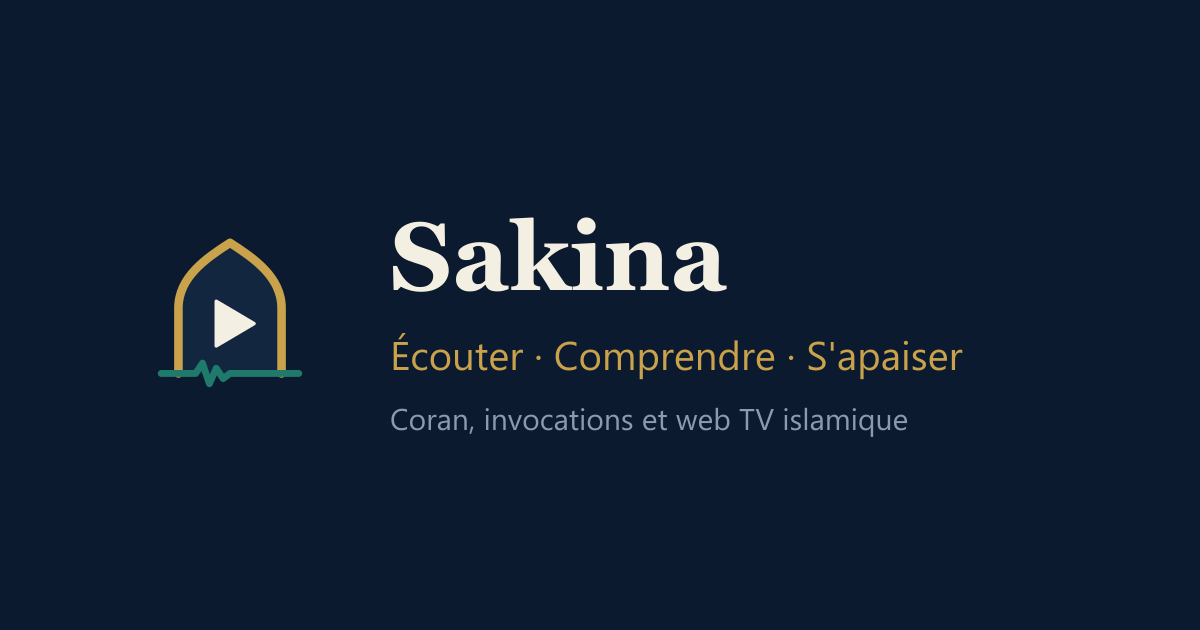
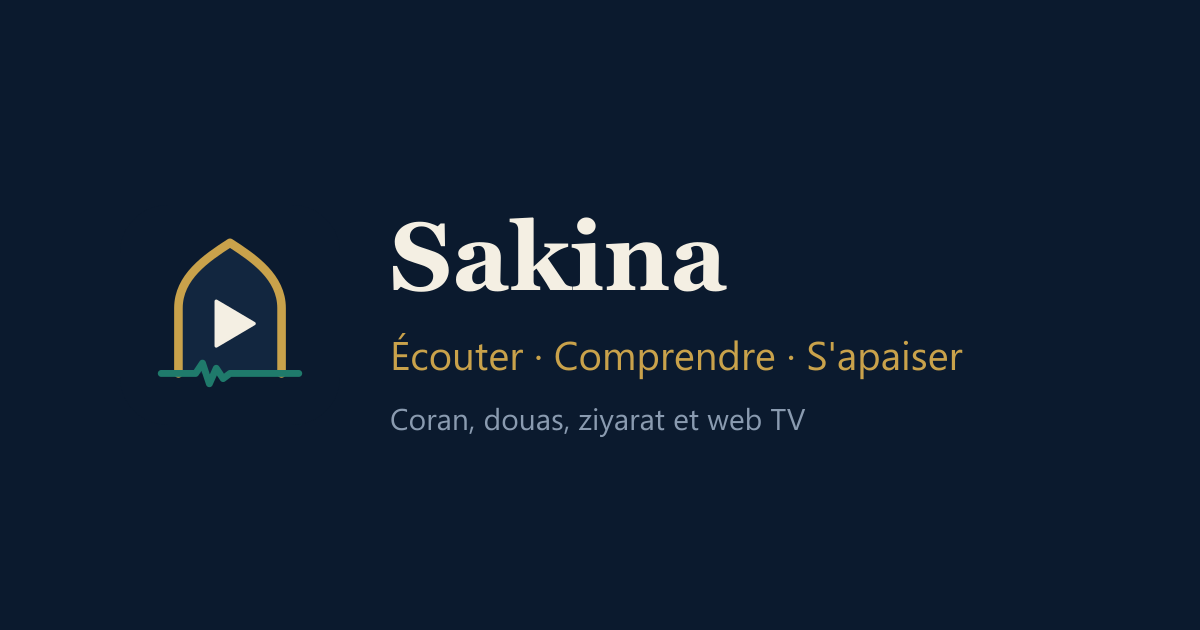
Switch categories and wording to Shia devotional content
New categories: Coran, Douas, Ziyarat, Sahifa Sajjadiya, Munajat, Ta'qibat,
Latmiyat & Nohas, Majalis, Madaeh & Mawalid, Conferences. The migration
renames existing categories where there is an equivalent and moves content
out of dropped ones, so nothing already uploaded is lost. The Invocations
page becomes Douas (/douas).

Changed region(s): [[0.4008, 0.6333, 0.7708, 0.6937]]

diff --git a/pb/pb_migrations/1761100000_shia_categories.js b/pb/pb_migrations/1761100000_shia_categories.js
@@ -1,0 +1,65 @@
+/// <reference path="../pb_data/types.d.ts" />
+
+// Categories for Shia devotional content. Existing categories are renamed where there is
+// an equivalent (so content already filed under them follows), and unused ones are removed.
+
+migrate((app) => {
+	// [slug, name_fr, name_ar, icon, description_fr, description_ar]
+	const categories = [
+		['coran', 'Coran', 'القرآن الكريم', 'book-open', 'Récitations du Saint Coran.', 'تلاوات القرآن الكريم.'],
+		['douas', 'Douas', 'الأدعية', 'hand-heart', 'Kumayl, Tawassul, Nudba, Iftitah, Sabah, Ahd…', 'كميل، التوسل، الندبة، الافتتاح، الصباح، العهد…'],
+		['ziyarat', 'Ziyarat', 'الزيارات', 'landmark', 'Ziyarat Achoura, Warith, Jami’a al-Kabira, Aminullah…', 'زيارة عاشوراء، وارث، الجامعة الكبيرة، أمين الله…'],
+		['sahifa', 'Sahifa Sajjadiya', 'الصحيفة السجادية', 'scroll-text', 'Les invocations de l’Imam Zayn al-Abidin (as).', 'أدعية الإمام زين العابدين (ع).'],
+		['munajat', 'Munajat', 'المناجاة', 'moon-star', 'Munajat Sha’baniyya et les quinze munajat.', 'المناجاة الشعبانية والمناجيات الخمس عشرة.'],
+		['taqibat', 'Ta’qibat', 'التعقيبات', 'sunrise', 'Invocations après la prière, tasbih de Fatima Zahra (as).', 'تعقيبات الصلاة وتسبيح الزهراء (ع).'],
+		['latmiyat', 'Latmiyat & Nohas', 'اللطميات والنعي', 'drum', 'Latmiyat et nohas pour Ahl al-Bayt (as).', 'لطميات ونعي أهل البيت (ع).'],
+		['majalis', 'Majalis', 'المجالس الحسينية', 'users', 'Majalis husseiniyya et récits de Karbala.', 'المجالس الحسينية وقراءة المصيبة.'],
+		['madaeh', 'Madaeh & Mawalid', 'المدائح والمواليد', 'sparkles', 'Célébrations des naissances des Ahl al-Bayt (as).', 'مدائح ومواليد أهل البيت (ع).'],
+		['conferences', 'Conférences', 'المحاضرات', 'mic', 'Cours, sermons et conférences.', 'محاضرات ودروس وخطب.']
+	];
+	const renames = { recitations: 'coran', invocations: 'douas', rappels: 'conferences', 'adhkar-matin': 'taqibat' };
+	// Dropped categories: their content moves to the closest new one
+	const merges = { 'adhkar-soir': 'taqibat', roqya: 'douas' };
+
+	const find = (slug) => {
+		try {
+			return app.findFirstRecordByData('categories', 'slug', slug);
+		} catch {
+			return null;
+		}
+	};
+
+	for (const [from, to] of Object.entries(renames)) {
+		const record = find(from);
+		if (record && !find(to)) {
+			record.set('slug', to);
+			app.save(record);
+		}
+	}
+
+	const collection = app.findCollectionByNameOrId('categories');
+	categories.forEach(([slug, fr, ar, icon, descFr, descAr], i) => {
+		const record = find(slug) ?? new Record(collection);
+		record.set('slug', slug);
+		record.set('name_fr', fr);
+		record.set('name_ar', ar);
+		record.set('icon', icon);
+		record.set('description_fr', descFr);
+		record.set('description_ar', descAr);
+		record.set('order', i + 1);
+		app.save(record);
+	});
+
+	for (const [from, to] of Object.entries(merges)) {
+		const old = find(from);
+		if (!old) continue;
+		const target = find(to);
+		for (const name of ['tracks', 'videos']) {
+			for (const item of app.findRecordsByFilter(name, 'category = {:id}', '', 0, 0, { id: old.id })) {
+				item.set('category', target.id);
+				app.save(item);
+			}
+		}
+		app.delete(old);
+	}
+});

diff --git a/scripts/seed-dev.ts b/scripts/seed-dev.ts
@@ -84,7 +84,7 @@ if (!reciter) {
 const demos: { slug: string; category: string; title_fr: string; title_ar: string; lines: Line[] }[] = [
 	{
 		slug: 'demo-subhanallah',
-		category: 'adhkar-matin',
+		category: 'taqibat',
 		title_fr: 'Gloire et louange à Allah',
 		title_ar: 'سبحان الله وبحمده',
 		lines: [
@@ -94,7 +94,7 @@ const demos: { slug: string; category: string; title_fr: string; title_ar: strin
 	},
 	{
 		slug: 'demo-tahlil',
-		category: 'adhkar-soir',
+		category: 'taqibat',
 		title_fr: "Il n'y a de divinité qu'Allah",
 		title_ar: 'لا إله إلا الله',
 		lines: [
@@ -104,7 +104,7 @@ const demos: { slug: string; category: string; title_fr: string; title_ar: strin
 	},
 	{
 		slug: 'demo-istighfar',
-		category: 'invocations',
+		category: 'douas',
 		title_fr: 'Demande de pardon',
 		title_ar: 'الاستغفار',
 		lines: [

diff --git a/web/scripts/brand-assets.ts b/web/scripts/brand-assets.ts
@@ -52,7 +52,7 @@ const ogText = Buffer.from(`
 <svg xmlns="http://www.w3.org/2000/svg" width="1200" height="630">
 	<text x="390" y="290" font-family="Georgia, serif" font-size="96" font-weight="600" fill="${IVORY}">Sakina</text>
 	<text x="390" y="370" font-family="Segoe UI, Arial, sans-serif" font-size="40" fill="${GOLD}">Écouter · Comprendre · S'apaiser</text>
-	<text x="390" y="430" font-family="Segoe UI, Arial, sans-serif" font-size="30" fill="${MIST}">Coran, invocations et web TV islamique</text>
+	<text x="390" y="430" font-family="Segoe UI, Arial, sans-serif" font-size="30" fill="${MIST}">Coran, douas, ziyarat et web TV</text>
 </svg>`);
 await sharp({ create: { width: 1200, height: 630, channels: 4, background: NIGHT } })
 	.composite([

diff --git a/web/src/routes/(site)/+page.svelte b/web/src/routes/(site)/+page.svelte
@@ -11,7 +11,7 @@
 
 	const sections = [
 		{ path: '/coran', title: m.nav_quran, text: m.quran_intro, icon: BookOpen },
-		{ path: '/invocations', title: m.nav_duas, text: m.duas_intro, icon: HandHeart },
+		{ path: '/douas', title: m.nav_duas, text: m.duas_intro, icon: HandHeart },
 		{ path: '/tv', title: m.nav_tv, text: m.tv_intro, icon: Tv }
 	];
 </script>
@@ -29,7 +29,7 @@
 	<p class="description">{m.site_description()}</p>
 	<div class="cta">
 		<Button href={link('/coran')} size="lg">{m.nav_quran()}</Button>
-		<Button href={link('/invocations')} size="lg" variant="secondary">{m.nav_duas()}</Button>
+		<Button href={link('/douas')} size="lg" variant="secondary">{m.nav_duas()}</Button>
 	</div>
 </section>
 

diff --git a/web/src/routes/(site)/styleguide/+page.svelte b/web/src/routes/(site)/styleguide/+page.svelte
@@ -49,7 +49,7 @@
 	<section>
 		<h2>Typography</h2>
 		<p class="display">Cormorant Garamond — Écouter, comprendre</p>
-		<p>Inter — Les invocations du matin et du soir, avec la traduction française.</p>
+		<p>Inter — Doua Kumayl et Ziyarat Achoura, avec la traduction française.</p>
 		<p class="arabic" lang="ar" dir="rtl">Noto Naskh Arabic — أذكار الصباح والمساء</p>
 		<p class="quran" lang="ar">بِسْمِ ٱللَّهِ ٱلرَّحْمَٰنِ ٱلرَّحِيمِ</p>
 	</section>

diff --git a/scripts/import-folder.ts b/scripts/import-folder.ts
@@ -2,8 +2,8 @@
 // (so large files pass Cloudflare). Sub-folders name the category:
 //
 //   mes-fichiers/
-//     adhkar-matin/ayat-al-kursi.mp3
-//     rappels/la-patience.mp4
+//     douas/doua-kumayl.mp3
+//     latmiyat/ya-hussein.mp4
 //
 //   $env:SAKINA_EMAIL = "you@example.com"; $env:SAKINA_PASSWORD = "..."
 //   node scripts/import-folder.ts mes-fichiers [--publish]

diff --git a/web/src/lib/components/layout/nav.ts b/web/src/lib/components/layout/nav.ts
@@ -15,7 +15,7 @@ export type NavItem = {
 export const navItems: NavItem[] = [
 	{ path: '/', label: m.nav_home, icon: House },
 	{ path: '/coran', label: m.nav_quran, icon: BookOpen },
-	{ path: '/invocations', label: m.nav_duas, icon: HandHeart },
+	{ path: '/douas', label: m.nav_duas, icon: HandHeart },
 	{ path: '/tv', label: m.nav_tv, icon: Tv }
 ];
 

diff --git a/README.md b/README.md
@@ -54,7 +54,7 @@ Create a **Docker Compose** resource in Coolify pointing at this repo; it uses `
   Uploads through this panel are limited to 100 MB by Cloudflare.
 - The content model lives in `pb/pb_migrations/`; PocketBase applies new migrations automatically on start.
 - **Bulk import** of a folder whose sub-folders are named after category slugs
-  (`adhkar-matin/`, `rappels/`…):
+  (`douas/`, `ziyarat/`, `latmiyat/`…):
   ```powershell
   $env:SAKINA_EMAIL = "you@example.com"; $env:SAKINA_PASSWORD = "..."
   node scripts\import-folder.ts D:\mes-fichiers            # drafts
